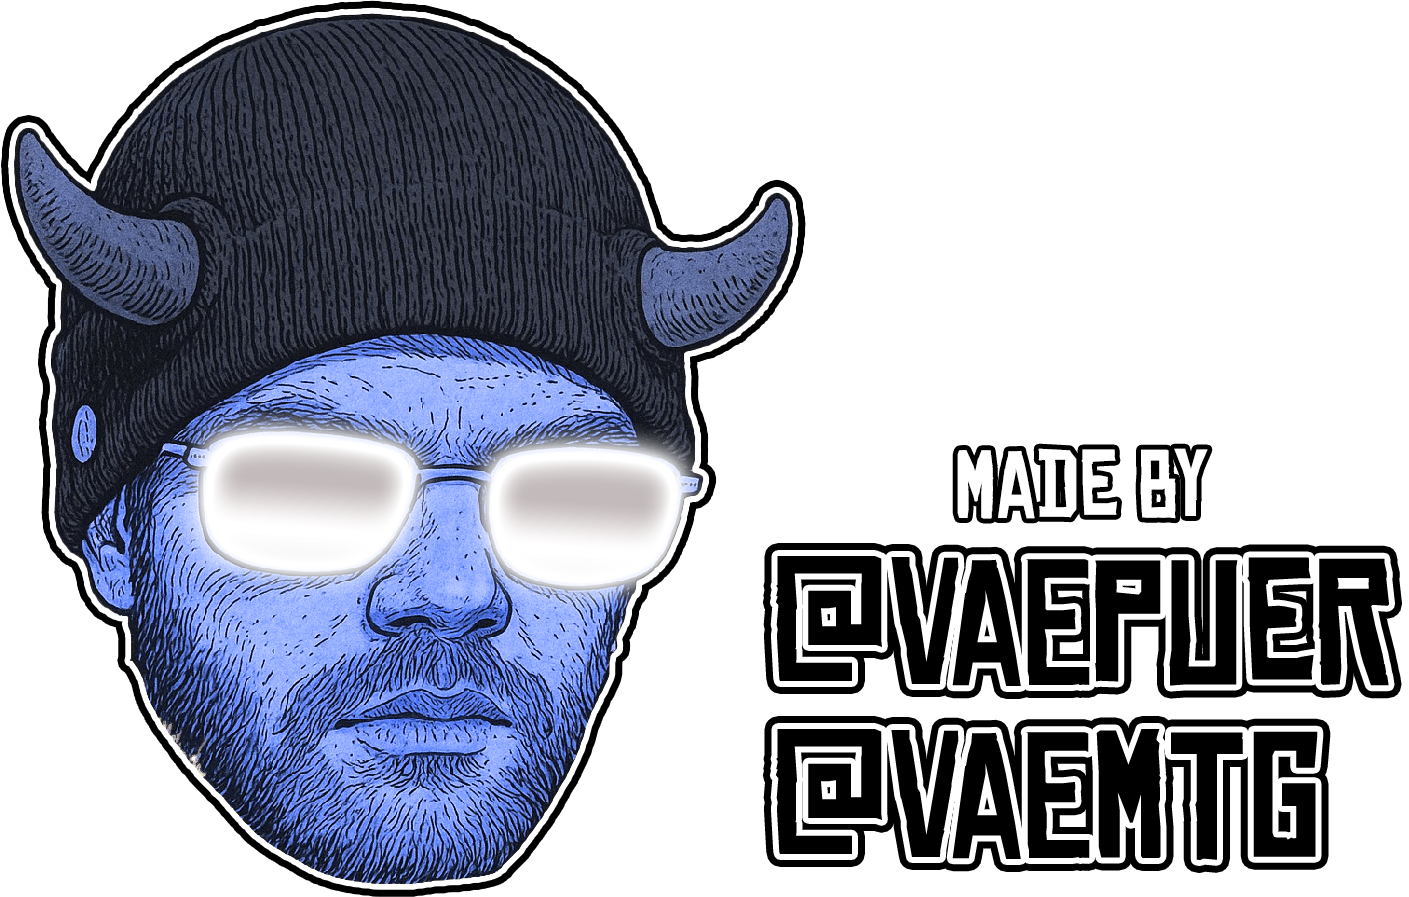
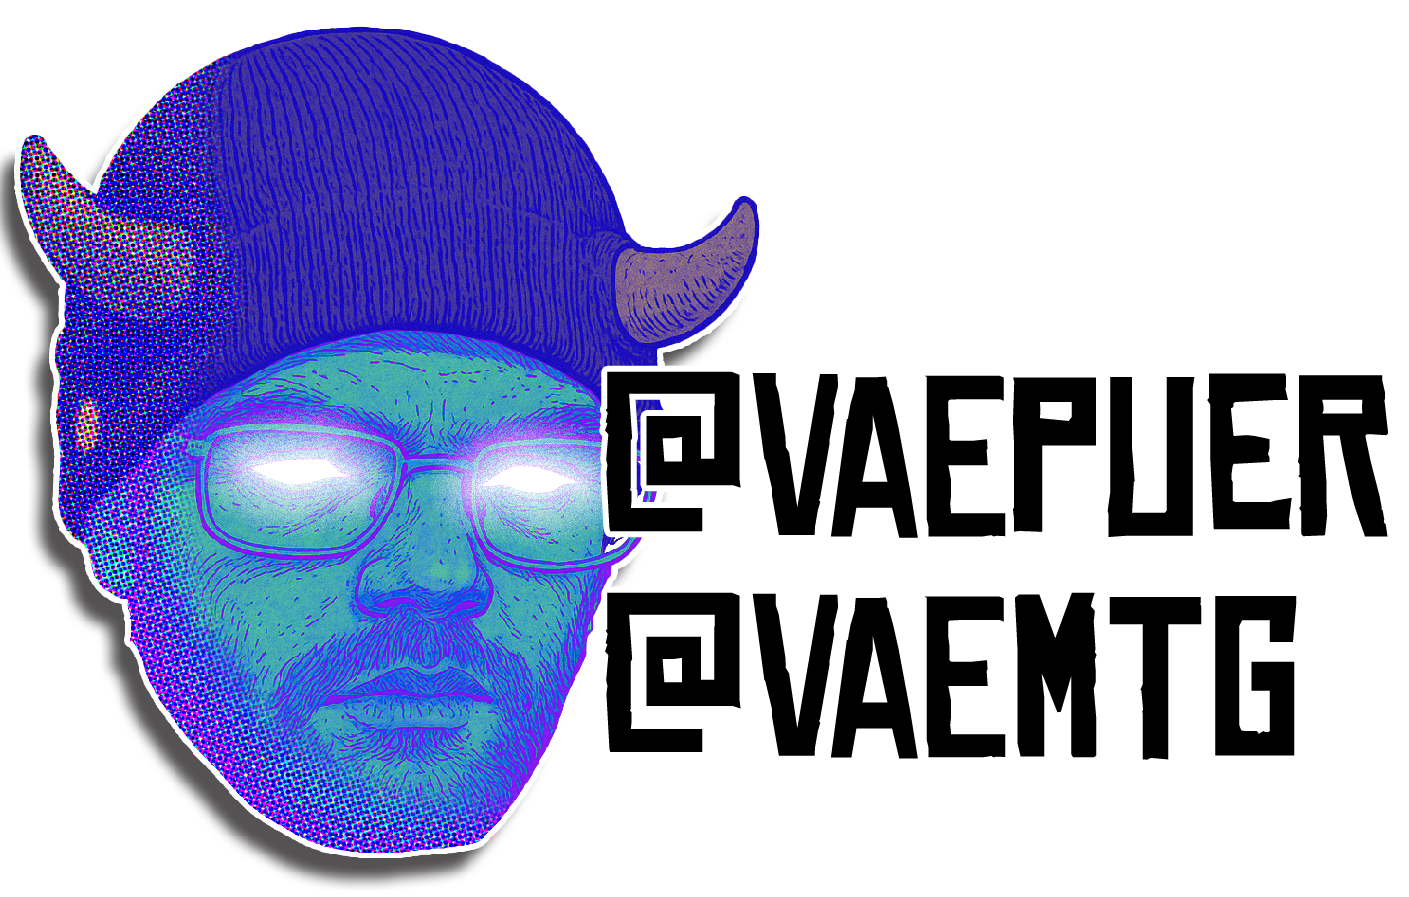
cool vaporwave credits.png added

diff --git a/style-binder.css b/style-binder.css
@@ -37,9 +37,9 @@ body {
   }
   
   .back-button{
-    background-color: #9e9e9e;
+    background-color: #1a1c2b;
     color: white;
-    border: none;
+    border: 1px solid white;
     padding: 8px 8px;
     cursor: pointer;
     border-radius: 5px;
@@ -53,9 +53,9 @@ body {
   }
 
   button, .button{
-    background-color: #9e9e9e;
+    background-color: #1a1c2b;
     color: white;
-    border: none;
+    border: 1px solid white;
     padding: 8px 8px;
     cursor: pointer;
     border-radius: 5px;
@@ -65,7 +65,8 @@ body {
   }
   
   button:hover, .button:hover, .back-button:hover {
-    background-color: #cccccc;
+    background-color:#3a3a4d;
+    border: 1px solid #868686; 
   }
   
   button:focus, .button:focus, .back-button:focus {
@@ -117,11 +118,12 @@ body {
     margin-top: 8px;
     padding: 6px 12px;
     font-size: 14px;
-    border: none;
-    background-color: #444;
+    border: 1px solid white;
+    background-color: #1a1c2b;
     color: white;
     border-radius: 4px;
     cursor: pointer;
+    transition: background-color 0.3s ease;
   }
   .quantity-badge, .foil-badge {
     position: absolute;

diff --git a/login.css b/login.css
@@ -108,20 +108,21 @@ a:hover{
 }
 
 button, .button {
-    background-color: #9e9e9e;
+    background-color: #1a1c2b;
     color: white;
     padding: 8px 8px;
-    border: none;
+    border: 1px solid white;
     cursor: pointer;
     border-radius: 5px;
     font-size: 14px;
     transition: background-color 0.3s ease;
     text-decoration: none;
-    width: 100%;
+    width: 50%;
 }
 
 button:hover, .button:hover {
-    background-color: #cccccc;
+    background-color: #3a3a4d;
+    border: 1px solid #868686;
 }
 
 button:focus, .button:focus {

diff --git a/index-style.css b/index-style.css
@@ -30,7 +30,7 @@ header {
   min-width: 30%;
   max-width: 200%;
   height: auto;
-  
+
 }
 
 h1, h2 {
@@ -108,6 +108,7 @@ input::placeholder, select::placeholder{
 
 #cardForm button:hover{
   background-color: #3a3a4d;
+  border: 1px solid #868686;
 }
 
 input[type="text"], select {
@@ -236,6 +237,7 @@ button, .button{
 
 button:hover, .button:hover {
   background-color: #3a3a4d;
+  border: 1px solid #868686;
 }
 
 button:focus, .button:focus {
